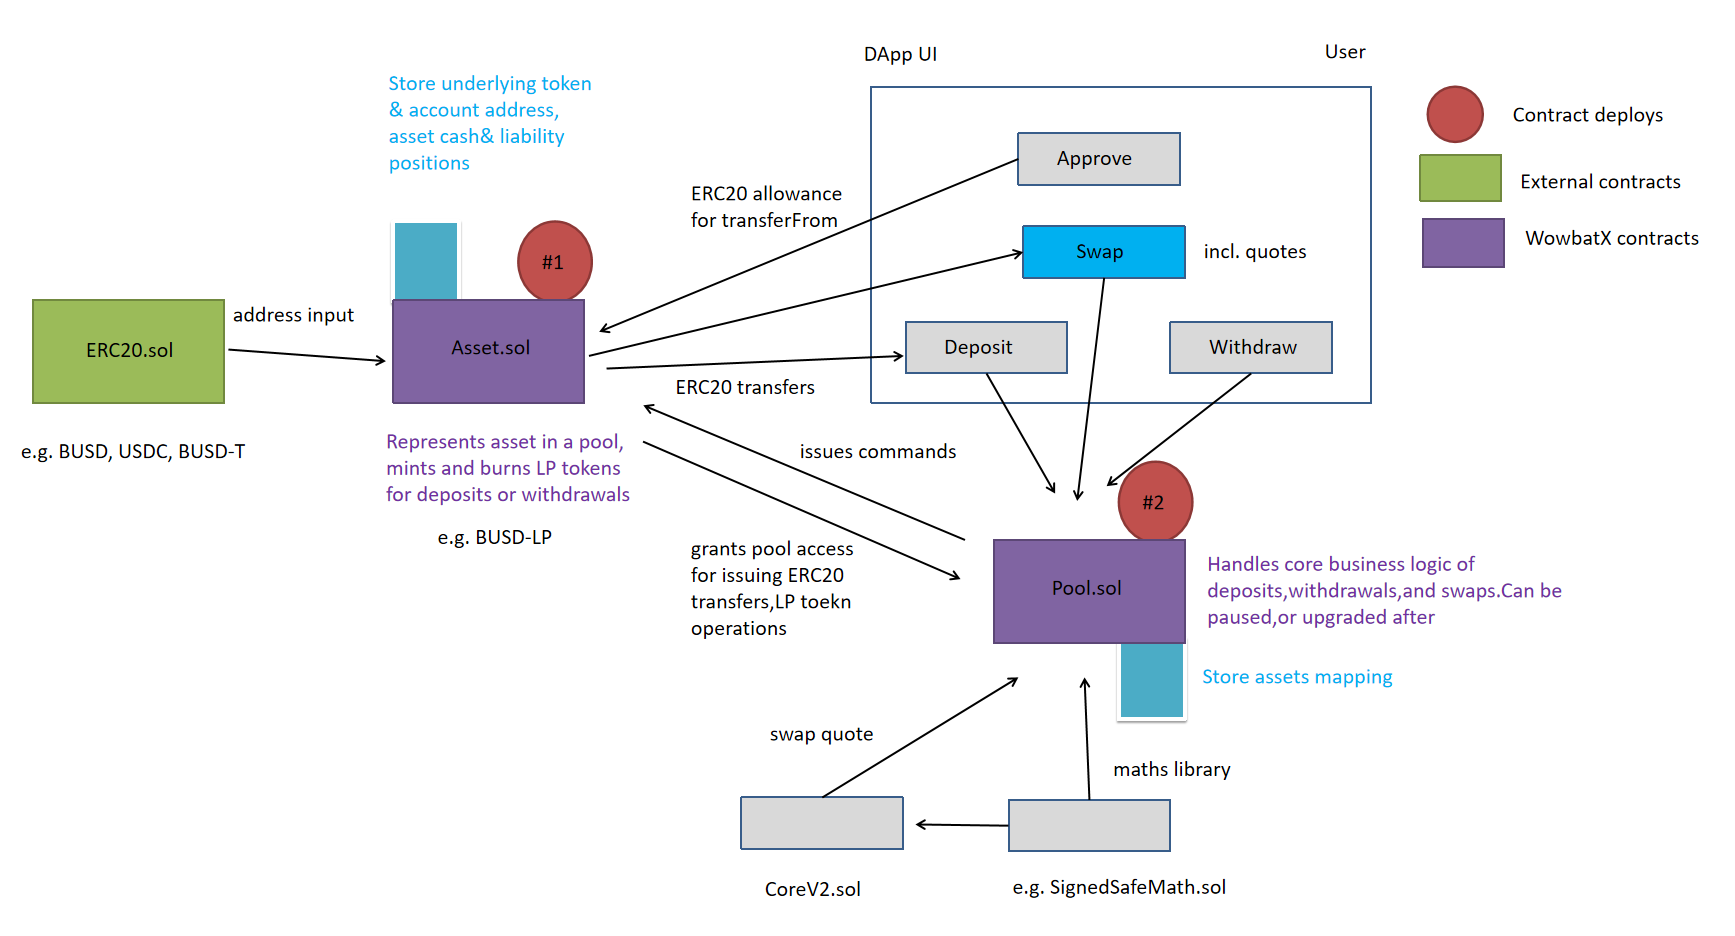
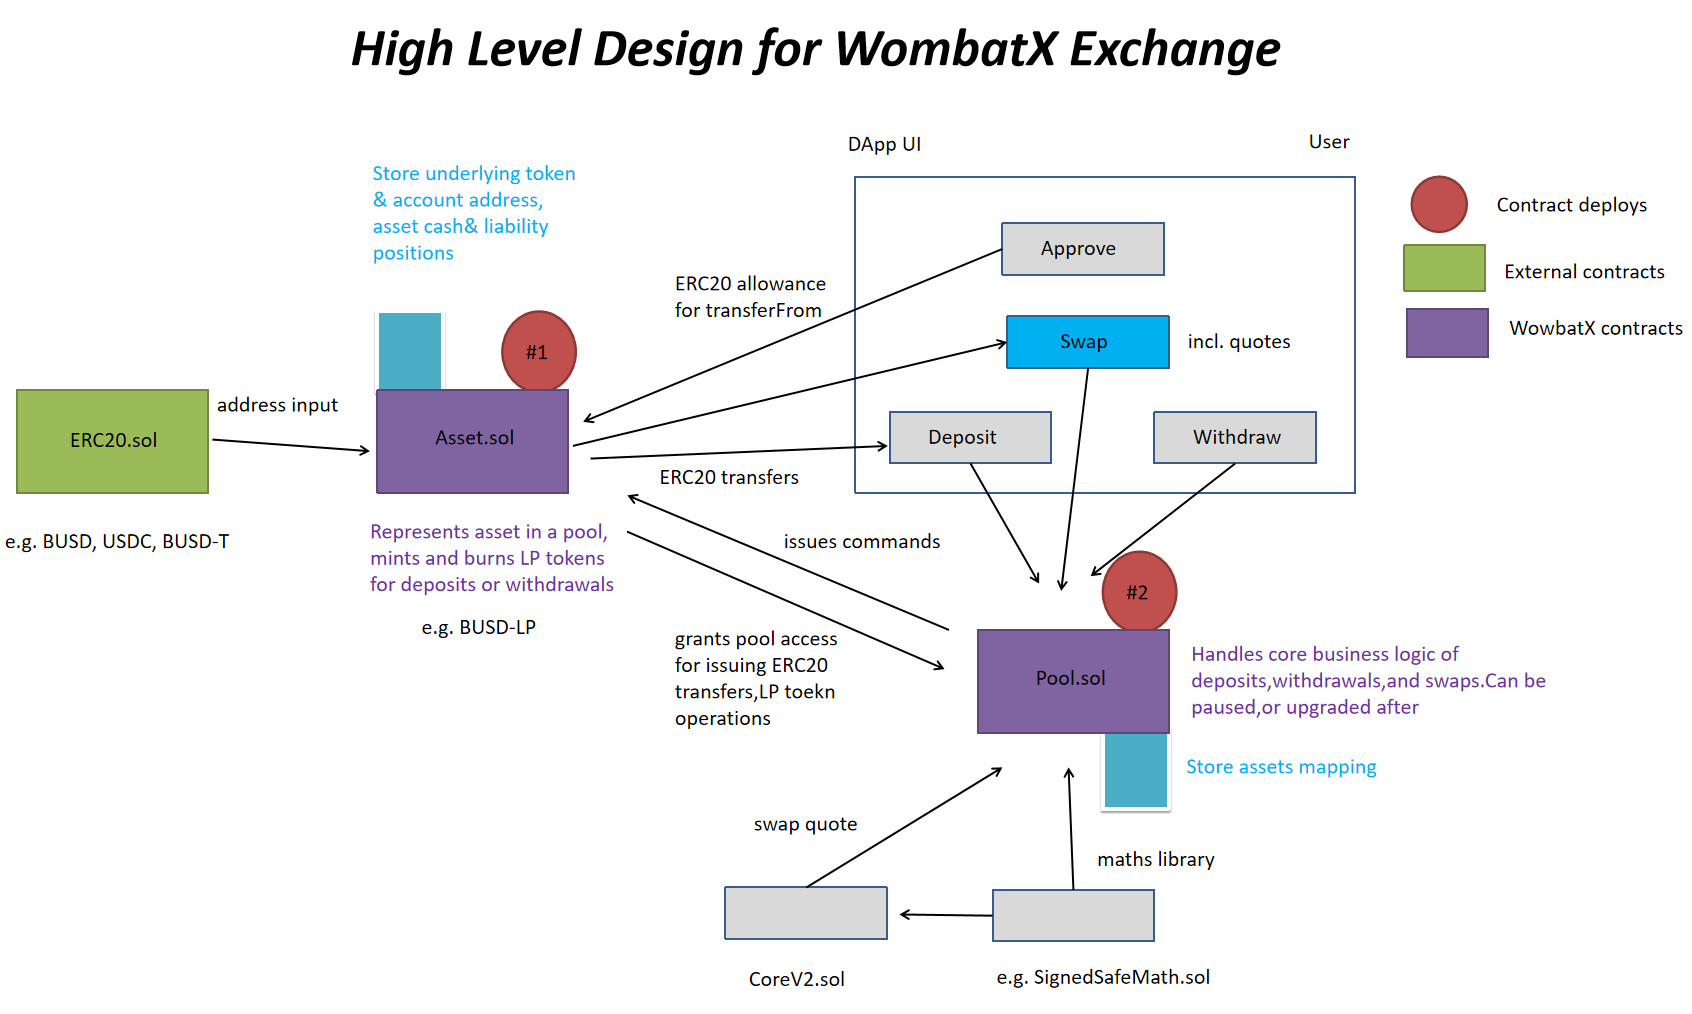
add design png

diff --git a/README.md b/README.md
@@ -4,3 +4,7 @@
 
 This repository contains the core smart contracts for the WombatX V1
 Protocol.
+
+## High-level System Overview
+
+!["Wombat High-level System Design"](/diagrams/high-level-design.png "High-level System Design")
